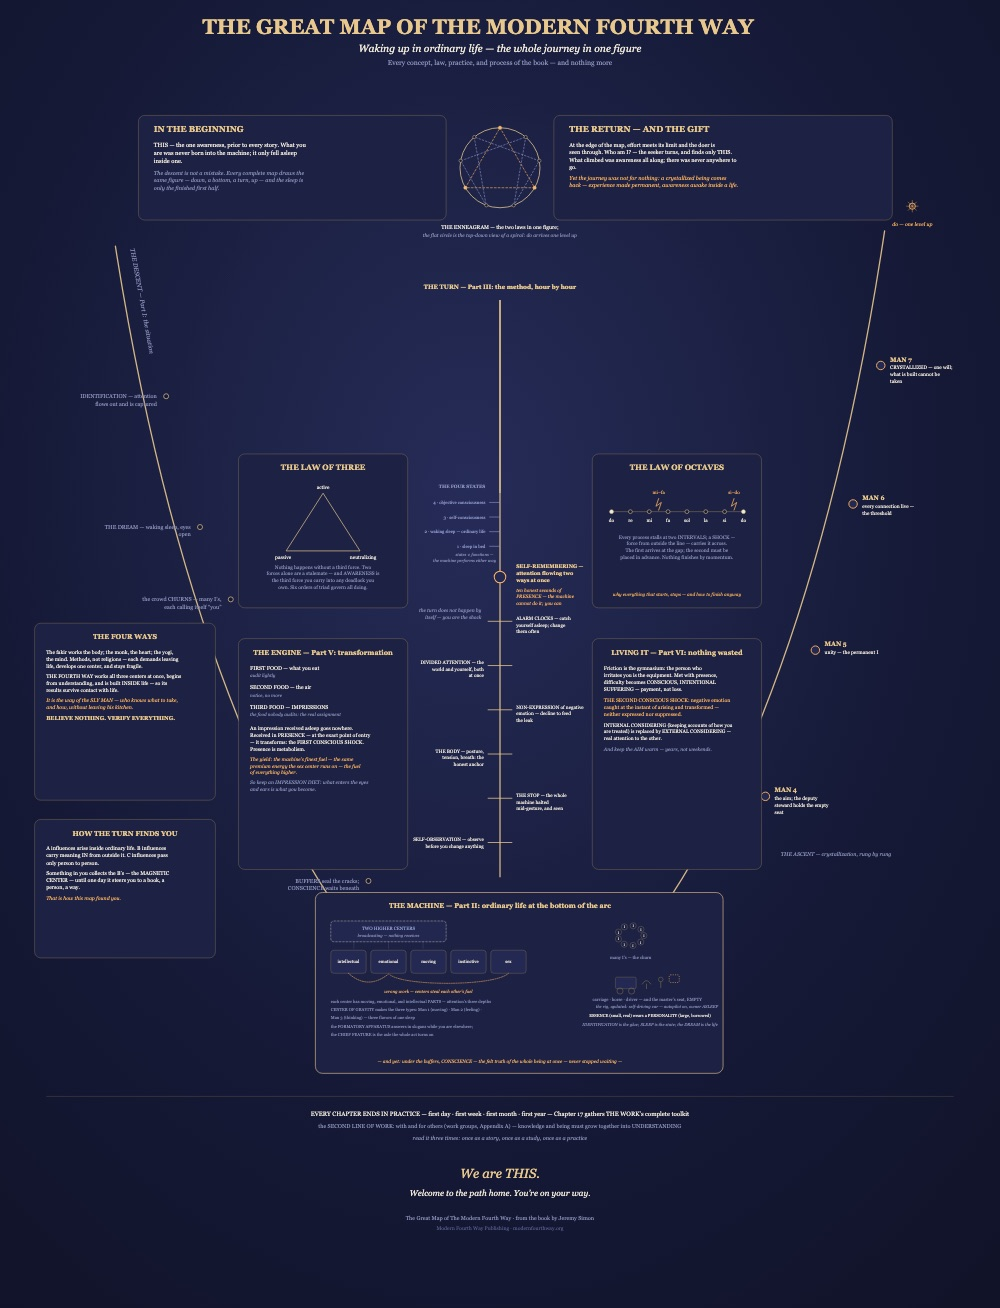
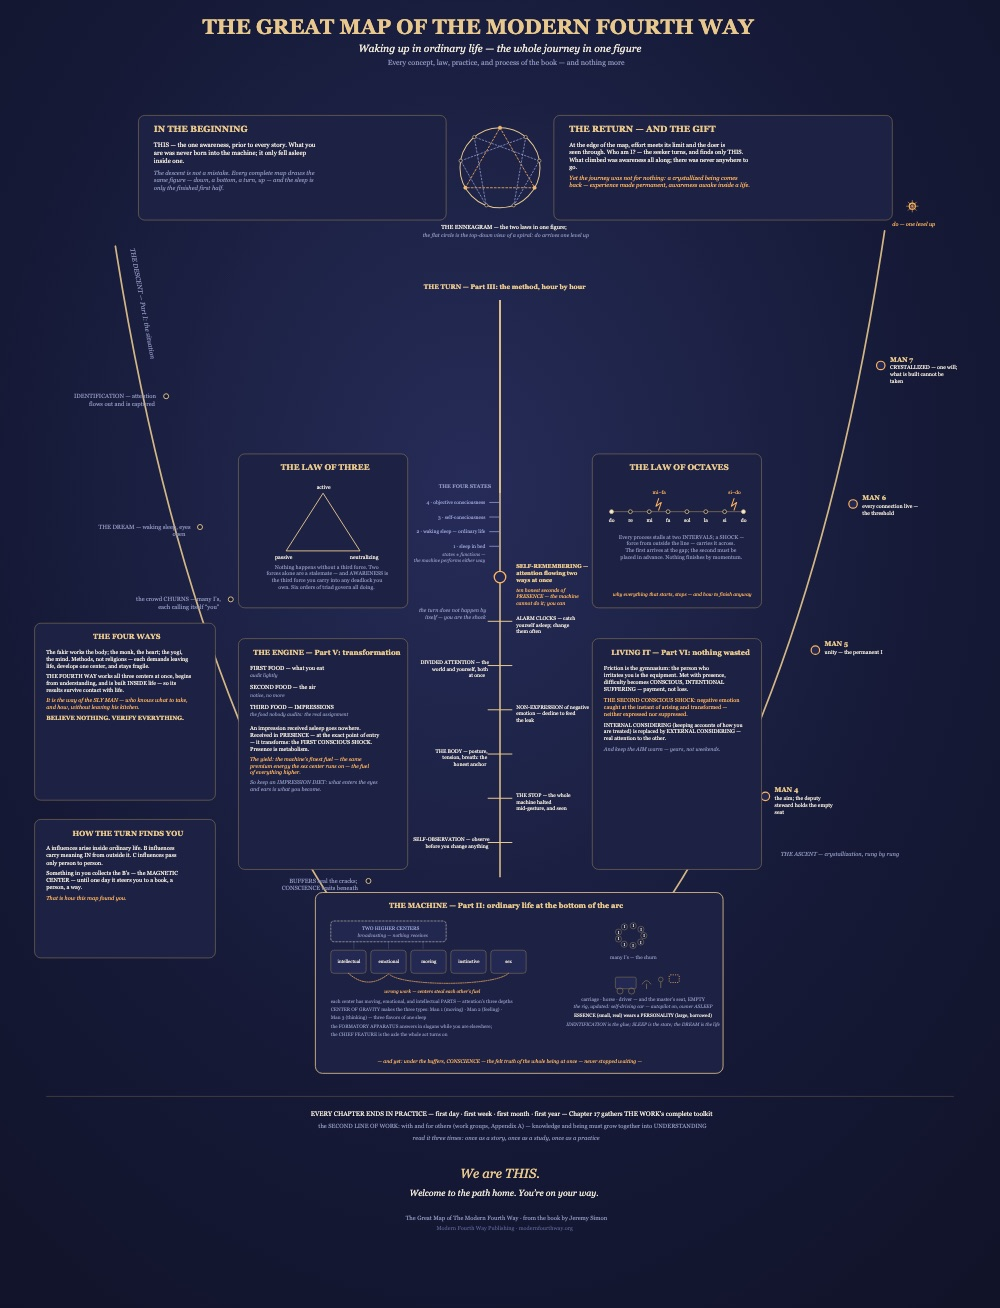
Site update

diff --git a/map.html b/map.html
@@ -276,6 +276,39 @@ font-family:Avenir,'Segoe UI',system-ui,sans-serif;letter-spacing:.06em;}
         opacity: .9;
         stroke-width: 3.4px;
       }
+    
+      /* readability pass 2026-09-17: larger type, stronger lines */
+      .st0{font-size:11px}
+      .st8,.st31,.st34{font-size:12.5px}
+      .st3{font-size:12.5px}
+      .st13,.st23{font-size:13px}
+      .st25{font-size:12px}
+      .st9,.st10,.st40,.st44{font-size:13px}
+      .st16{font-size:13.5px}
+      .st12,.st29{font-size:13.5px}
+      .st6,.st14,.st39,.st46{font-size:14px}
+      .st1,.st4,.st21,.st36,.st47{font-size:14.5px}
+      .st2,.st5{font-size:15px}
+      .st22,.st24,.st37,.st41,.st43{font-size:15.5px}
+      .st11{font-size:16.5px}
+      .st30,.st48{font-size:17px}
+      .st33{font-size:17px}
+      .st7{font-size:17.5px}
+      .st27,.st45{font-size:19px}
+      .st28{font-size:21px}
+      .st35,.st42{font-size:23px}
+      .st17{stroke-width:1.5px}
+      .st55,.st51,.st18,.st72,.st65{stroke-width:1.6px}
+      .st52,.st54,.st58,.st61,.st71,.st50,.st63,.st66{stroke-width:1.9px}
+      .st53,.st38{stroke-width:2.1px}
+      .st59,.st73{stroke-width:2.4px}
+      .st62,.st67{stroke-width:2.6px}
+      .st68{stroke-width:2.9px}
+      .st70{stroke-width:3.1px}
+      .st69{stroke-width:3.4px}
+      .st60,.st64{stroke-width:3.8px}
+      .st49{stroke-width:4.4px}
+      .st56,.st57,.st19,.st26,.st75{stroke-width:1.4px}
     </style>
     <radialGradient id="radial-gradient" cx="436.3" cy="2132" fx="436.3" fy="2132" r=".8" gradientTransform="translate(-1133164 7250068) scale(2600 -3400)" gradientUnits="userSpaceOnUse">
       <stop offset="0" stop-color="#262c58"/>
@@ -301,17 +334,17 @@ font-family:Avenir,'Segoe UI',system-ui,sans-serif;letter-spacing:.06em;}
   <line class="st18" x1="2372" y1="536" x2="2383.3" y2="524.7"/>
   <text class="st36" transform="translate(2319.77 588)"><tspan x="0" y="0">do — one level up</tspan></text>
   <circle class="st73" cx="432" cy="1030" r="6.5"/>
-  <text class="st43" transform="translate(208.4126 1035)"><tspan x="0" y="0">IDENTIFICATION — attention</tspan></text>
-  <text class="st43" transform="translate(247.7 1054.4301)"><tspan x="0" y="0">flows out and is captured</tspan></text>
+  <text class="st43" transform="translate(192.41 1035)"><tspan x="0" y="0">IDENTIFICATION — attention</tspan></text>
+  <text class="st43" transform="translate(231.70 1054.4301)"><tspan x="0" y="0">flows out and is captured</tspan></text>
   <circle class="st73" cx="520" cy="1370" r="6.5"/>
-  <text class="st43" transform="translate(272.135 1375)"><tspan x="0" y="0">THE DREAM — waking sleep, eyes</tspan></text>
-  <text class="st43" transform="translate(464.3237 1394.4301)"><tspan x="0" y="0">open</tspan></text>
+  <text class="st43" transform="translate(256.14 1375)"><tspan x="0" y="0">THE DREAM — waking sleep, eyes</tspan></text>
+  <text class="st43" transform="translate(448.32 1394.4301)"><tspan x="0" y="0">open</tspan></text>
   <circle class="st73" cx="600" cy="1558" r="6.5"/>
-  <text class="st43" transform="translate(369.8564 1563)"><tspan x="0" y="0">the crowd CHURNS — many I’s,</tspan></text>
-  <text class="st43" transform="translate(427.198 1582.4301)"><tspan x="0" y="0">each calling itself “you”</tspan></text>
+  <text class="st43" transform="translate(353.86 1563)"><tspan x="0" y="0">the crowd CHURNS — many I’s,</tspan></text>
+  <text class="st43" transform="translate(411.20 1582.4301)"><tspan x="0" y="0">each calling itself “you”</tspan></text>
   <circle class="st73" cx="958" cy="2290" r="6.5"/>
-  <text class="st43" transform="translate(767.7385 2295)"><tspan x="0" y="0">BUFFERS seal the cracks;</tspan></text>
-  <text class="st43" transform="translate(748.332 2314.4299)"><tspan x="0" y="0">CONSCIENCE waits beneath</tspan></text>
+  <text class="st43" transform="translate(751.74 2295)"><tspan x="0" y="0">BUFFERS seal the cracks;</tspan></text>
+  <text class="st43" transform="translate(732.33 2314.4299)"><tspan x="0" y="0">CONSCIENCE waits beneath</tspan></text>
   <text class="st33" transform="translate(338.7 646.9) rotate(79.5) skewX(-.6)"><tspan x="0" y="0">THE DESCENT — Part I: the situation</tspan></text>
   <circle class="st70" cx="1990" cy="2070" r="11"/>
   <text class="st7" transform="translate(2014 2060)"><tspan x="0" y="0">MAN 4</tspan></text>
@@ -432,15 +465,15 @@ font-family:Avenir,'Segoe UI',system-ui,sans-serif;letter-spacing:.06em;}
   <text class="st12" transform="translate(1342 1554.75)"><tspan x="0" y="0">PRESENCE — the machine</tspan></text>
   <text class="st12" transform="translate(1342 1571.5)"><tspan x="0" y="0">cannot do it; you can</tspan></text>
   <line class="st61" x1="1272" y1="1420" x2="1300" y2="1420"/>
-  <text class="st23" transform="translate(1188.0361 1424)"><tspan x="0" y="0">1 · sleep in bed</tspan></text>
+  <text class="st23" transform="translate(1178.39 1424)"><tspan x="0" y="0">1 · sleep in bed</tspan></text>
   <line class="st61" x1="1272" y1="1382" x2="1300" y2="1382"/>
-  <text class="st23" transform="translate(1103.6616 1386)"><tspan x="0" y="0">2 · waking sleep — ordinary life</tspan></text>
+  <text class="st23" transform="translate(1083.01 1386)"><tspan x="0" y="0">2 · waking sleep — ordinary life</tspan></text>
   <line class="st61" x1="1272" y1="1344" x2="1300" y2="1344"/>
-  <text class="st23" transform="translate(1153.1824 1348)"><tspan x="0" y="0">3 · self-consciousness</tspan></text>
+  <text class="st23" transform="translate(1138.99 1348)"><tspan x="0" y="0">3 · self-consciousness</tspan></text>
   <line class="st61" x1="1272" y1="1306" x2="1300" y2="1306"/>
-  <text class="st23" transform="translate(1126.729 1310)"><tspan x="0" y="0">4 · objective consciousness</tspan></text>
-  <text class="st34" transform="translate(1184 1446)"><tspan x="0" y="0">states ≠ functions —</tspan></text>
-  <text class="st34" transform="translate(1126 1462)"><tspan x="0" y="0">the machine performs either way</tspan></text>
+  <text class="st23" transform="translate(1109.08 1310)"><tspan x="0" y="0">4 · objective consciousness</tspan></text>
+  <text class="st34" transform="translate(1149.82 1446)"><tspan x="0" y="0">states ≠ functions —</tspan></text>
+  <text class="st34" transform="translate(1075.89 1462)"><tspan x="0" y="0">the machine performs either way</tspan></text>
   <text class="st16" transform="translate(1140.875 1268)"><tspan x="0" y="0">THE FOUR STATES</tspan></text>
   <path class="st64" d="M1300,1280v-480"/>
   <line class="st60" x1="1300" y1="800" x2="1300" y2="780"/>
@@ -549,10 +582,10 @@ font-family:Avenir,'Segoe UI',system-ui,sans-serif;letter-spacing:.06em;}
   <circle class="st65" cx="1718" cy="2546" r="6"/>
   <line class="st66" x1="1718" y1="2552" x2="1718" y2="2568"/>
   <rect class="st63" x="1740" y="2534" width="26" height="20" rx="3" ry="3"/>
-  <text class="st13" transform="translate(1540.6342 2602)"><tspan x="0" y="0">carriage · horse · driver — and the master’s seat, EMPTY</tspan></text>
-  <text class="st34" transform="translate(1549 2621)"><tspan x="0" y="0">the rig, updated: self-driving car — autopilot on, owner ASLEEP</tspan></text>
-  <text class="st31" transform="translate(1531.9233 2644)"><tspan x="0" y="0">ESSENCE (small, real) wears a PERSONALITY (large, borrowed)</tspan></text>
-  <text class="st34" transform="translate(1514.0618 2668)"><tspan x="0" y="0">IDENTIFICATION is the glue; SLEEP is the state; the DREAM is the life</tspan></text>
+  <text class="st13" transform="translate(1511.10 2602)"><tspan x="0" y="0">carriage · horse · driver — and the master’s seat, EMPTY</tspan></text>
+  <text class="st34" transform="translate(1491.33 2621)"><tspan x="0" y="0">the rig, updated: self-driving car — autopilot on, owner ASLEEP</tspan></text>
+  <text class="st31" transform="translate(1492.37 2644)"><tspan x="0" y="0">ESSENCE (small, real) wears a PERSONALITY (large, borrowed)</tspan></text>
+  <text class="st34" transform="translate(1472.14 2668)"><tspan x="0" y="0">IDENTIFICATION is the glue; SLEEP is the state; the DREAM is the life</tspan></text>
   <text class="st12" transform="translate(981.5155 2762)"><tspan x="0" y="0">— and yet: under the buffers, CONSCIENCE — the felt truth of the whole being at once — never stopped waiting —</tspan></text>
   <line class="st19" x1="120" y1="2850" x2="2480" y2="2850"/>
   <text class="st48" transform="translate(807.6875 2900)"><tspan x="0" y="0">EVERY CHAPTER ENDS IN PRACTICE — first day · first week · first month · first year — Chapter 17 gathers THE WORK’s complete toolkit</tspan></text>
